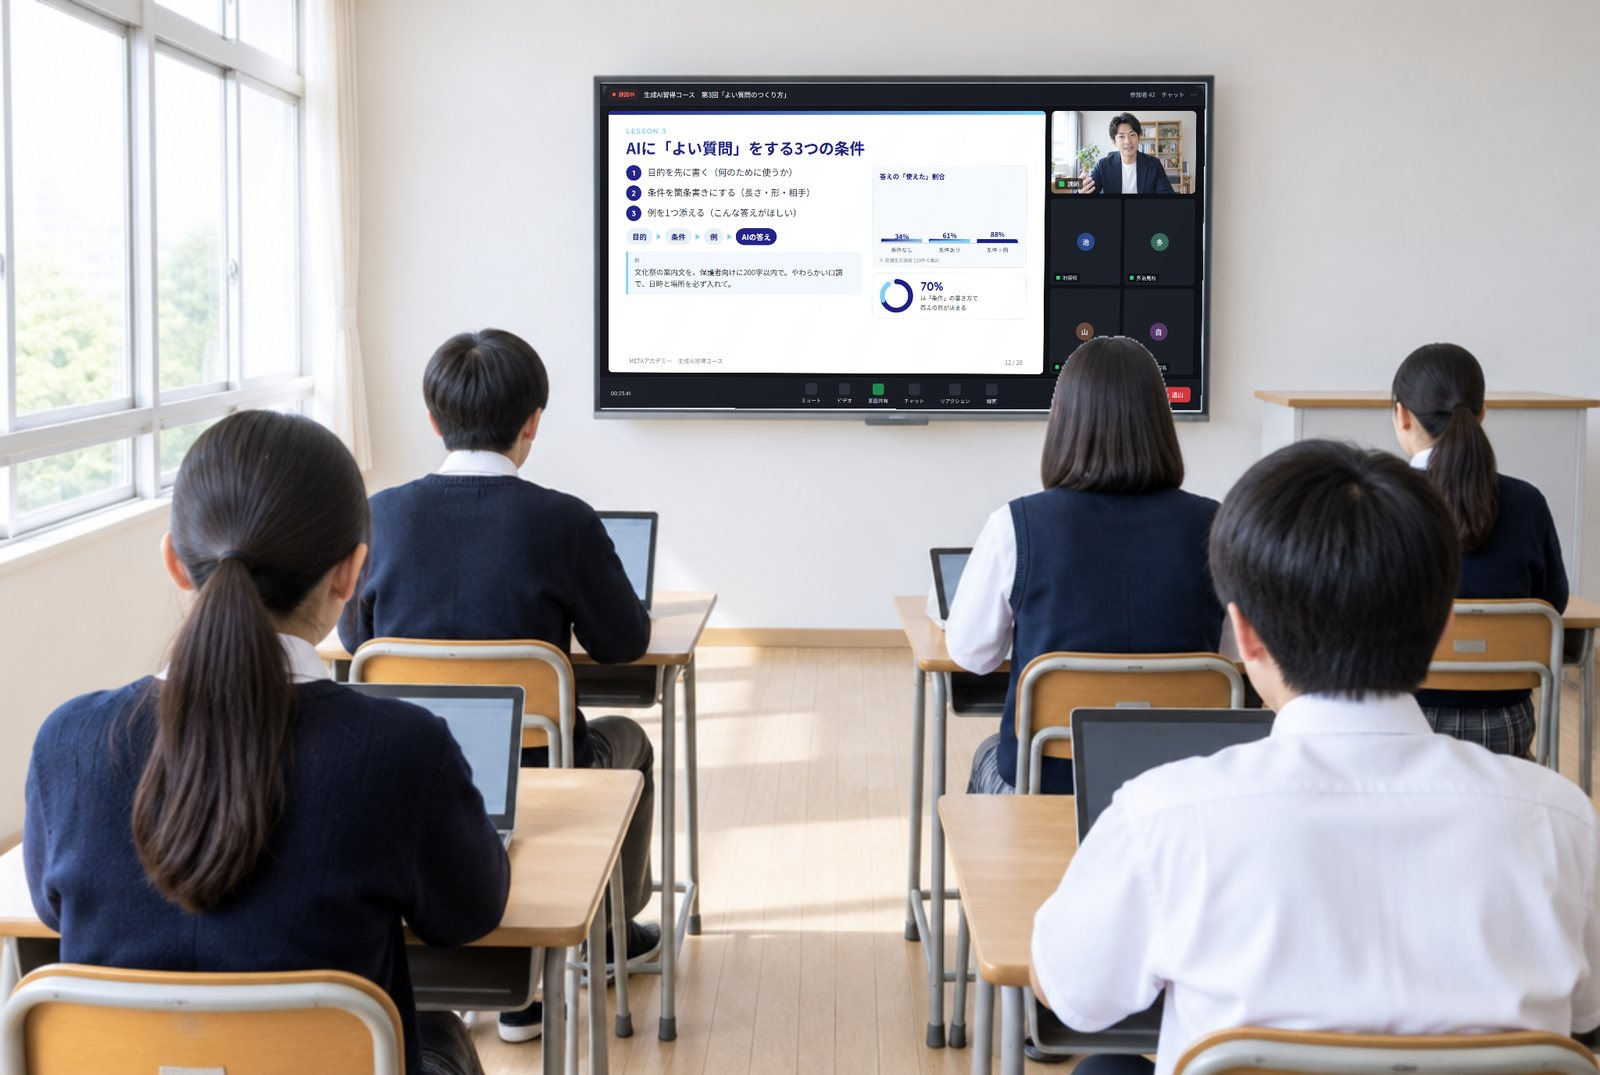
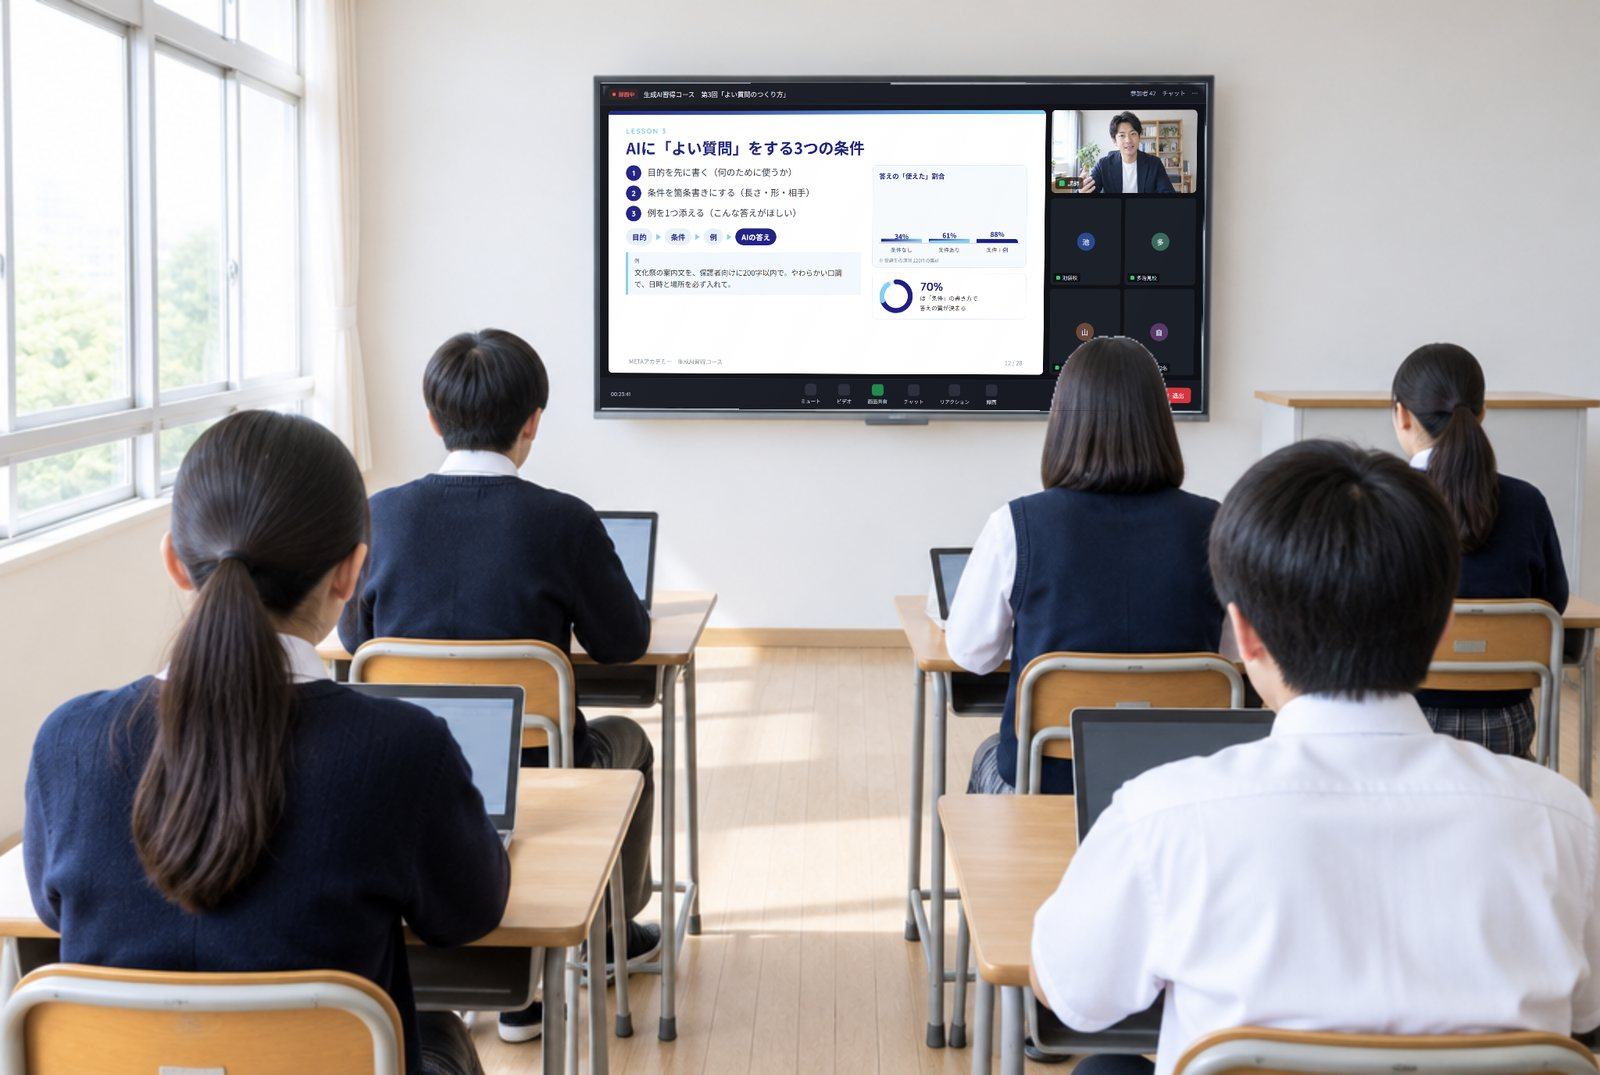
ノートPCの画面の傾きを直す（四隅＝凸包の長い辺の交点で検出。肩で隠れた辺の影響を受けない）

diff --git a/index.html b/index.html
@@ -12,7 +12,7 @@
 <link rel="preconnect" href="https://fonts.gstatic.com" crossorigin>
 <link rel="stylesheet" href="https://fonts.googleapis.com/css2?family=Noto+Sans+JP:wght@400;500;700&family=Quicksand:wght@500;600;700&display=swap">
 <link rel="stylesheet" href="https://cdnjs.cloudflare.com/ajax/libs/font-awesome/6.5.2/css/all.min.css">
-<link rel="stylesheet" href="assets/css/style.css?v=202610280705">
+<link rel="stylesheet" href="assets/css/style.css?v=202610280712">
 </head>
 <body id="top" class="home">
 
@@ -56,9 +56,9 @@
 <!-- ===== ヒーロー ===== -->
 <section class="hero" id="hero">
 	<div class="hero-bg">
-		<img src="assets/img/hero_poster.jpg?v=202610280705" alt="" class="hero-still">
-		<video id="heroVideo" class="hero-video" autoplay muted loop playsinline preload="auto" poster="assets/img/hero_poster.jpg?v=202610280705" aria-hidden="true">
-			<source src="assets/img/hero_video.mp4?v=202610280705" type="video/mp4">
+		<img src="assets/img/hero_poster.jpg?v=202610280712" alt="" class="hero-still">
+		<video id="heroVideo" class="hero-video" autoplay muted loop playsinline preload="auto" poster="assets/img/hero_poster.jpg?v=202610280712" aria-hidden="true">
+			<source src="assets/img/hero_video.mp4?v=202610280712" type="video/mp4">
 		</video>
 	</div>
 	<div class="hero-inner" id="heroInner">
@@ -168,7 +168,7 @@
 		</div>
 		<div class="course-visual">
 			<div class="cv-stage">
-				<img src="assets/img/course_tools.jpg?v=202610280705" alt="ドローン・VR・マイク・タブレット・カメラ・鍵盤など、コースで使う道具">
+				<img src="assets/img/course_tools.jpg?v=202610280712" alt="ドローン・VR・マイク・タブレット・カメラ・鍵盤など、コースで使う道具">
 				<svg class="cv-label" viewBox="0 0 1344 390" aria-hidden="true">
 					<defs>
 						<linearGradient id="cvScreen" x1="0" y1="0" x2="0.3" y2="1"><stop offset="0" stop-color="#232596"/><stop offset="1" stop-color="#0B0D3F"/></linearGradient>
@@ -216,7 +216,7 @@
 		</div>
 
 		<div class="split">
-			<div class="split-img"><img src="assets/img/classroom.jpg?v=202610280705" alt="教室で授業を受ける生徒たち"></div>
+			<div class="split-img"><img src="assets/img/classroom.jpg?v=202610280712" alt="教室で授業を受ける生徒たち"></div>
 			<div class="split-txt">
 				<h3>ハイブリッド授業</h3>
 				<p>プロ講師の授業をオンラインで各校舎に配信し、教室には学校の先生が立ち会います。講師が教室を訪れる対面の回を組み合わせることで、画面越しだけでは得られない体験も残します。授業は録画してアーカイブにし、欠席した生徒の学び直しにも使えます。</p>
@@ -224,7 +224,7 @@
 		</div>
 
 		<div class="split rev">
-			<div class="split-img"><img src="assets/img/tablet.jpg?v=202610280705" alt="タブレットで学ぶ"></div>
+			<div class="split-img"><img src="assets/img/tablet.jpg?v=202610280712" alt="タブレットで学ぶ"></div>
 			<div class="split-txt">
 				<h3>3つの独自システム</h3>
 				<dl class="sys-list">
@@ -255,7 +255,7 @@
 			<p class="lead">あなたの専門を、全国の高校生へ。<br class="pc">教えること以外は、METAアカデミーが引き受けます。</p>
 		</div>
 		<div class="split">
-			<div class="split-img"><img src="assets/img/lecturer.jpg?v=202610280705" alt="オンラインで授業を配信する講師"></div>
+			<div class="split-img"><img src="assets/img/lecturer.jpg?v=202610280712" alt="オンラインで授業を配信する講師"></div>
 			<div class="split-txt">
 				<ul class="check-list">
 					<li><strong>授業に集中できる</strong><span>学校との調整・契約・請求・生徒への連絡は、すべてMETAが代行します。</span></li>
@@ -399,6 +399,6 @@
 </footer>
 
 <a href="#top" class="to-top" id="toTop" aria-label="ページの先頭へ"><i class="fa-solid fa-chevron-up"></i></a>
-<script src="assets/js/main.js?v=202610280705"></script>
+<script src="assets/js/main.js?v=202610280712"></script>
 </body>
 </html>
